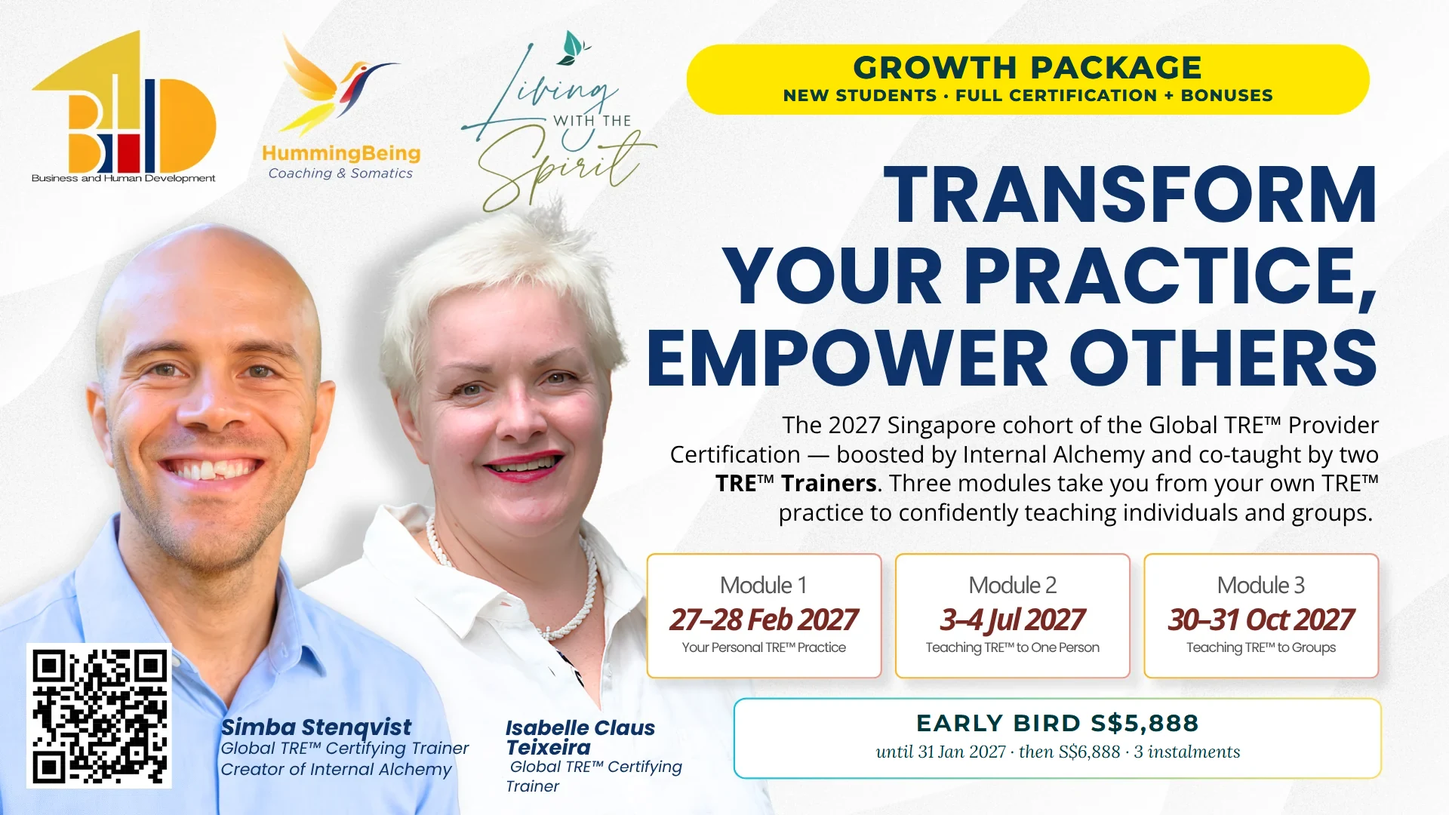
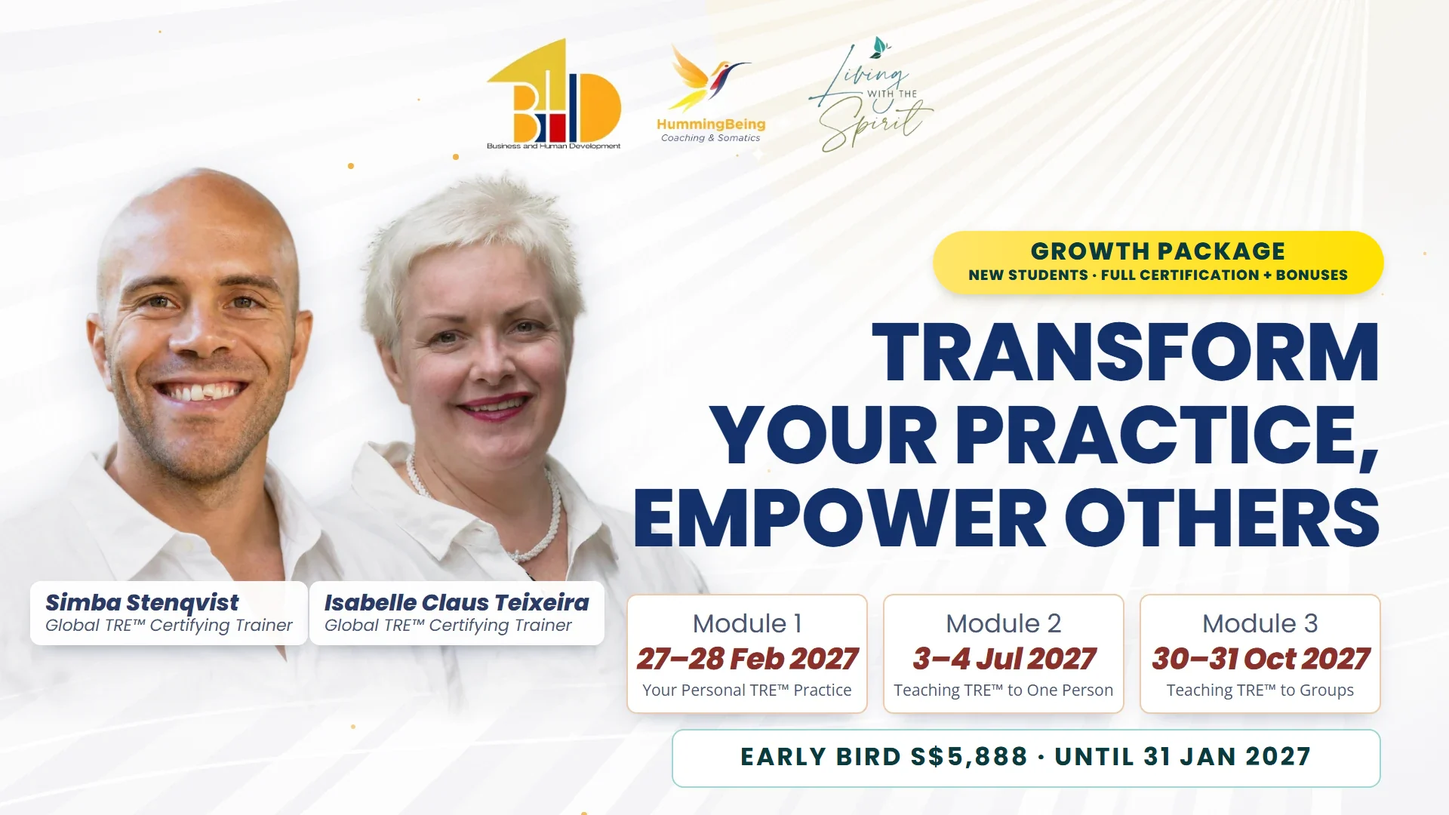
2027 packages: new clean thumbnails, own poster per package page; Scotland + Lisbon portrait posters; posters fill the column

diff --git a/events.html b/events.html
@@ -801,7 +801,7 @@ j=d.createElement(s),dl=l!="dataLayer"?"&l="+l:"";j.async=true;j.src=
         "address": { "@type": "PostalAddress", "addressCountry": "SG", "addressLocality": "Singapore" }
       },
       "organizer": { "@type": "Person", "name": "Isabelle Claus Teixeira", "url": "https://hummingbeing.com/isabelle" },
-      "image": "https://hummingbeing.com/images/event-certification-2027-growth.webp",
+      "image": "https://hummingbeing.com/images/event-certification-2027-growth.webp?v=3",
       "url": "https://hummingbeing.com/event-certification-2027-growth",
       "offers": [
         {
@@ -837,7 +837,7 @@ j=d.createElement(s),dl=l!="dataLayer"?"&l="+l:"";j.async=true;j.src=
         "address": { "@type": "PostalAddress", "addressCountry": "SG", "addressLocality": "Singapore" }
       },
       "organizer": { "@type": "Person", "name": "Isabelle Claus Teixeira", "url": "https://hummingbeing.com/isabelle" },
-      "image": "https://hummingbeing.com/images/event-certification-2027-foundational.webp",
+      "image": "https://hummingbeing.com/images/event-certification-2027-foundational.webp?v=3",
       "url": "https://hummingbeing.com/event-certification-2027-foundational",
       "offers": [
         {
@@ -873,7 +873,7 @@ j=d.createElement(s),dl=l!="dataLayer"?"&l="+l:"";j.async=true;j.src=
         "address": { "@type": "PostalAddress", "addressCountry": "SG", "addressLocality": "Singapore" }
       },
       "organizer": { "@type": "Person", "name": "Isabelle Claus Teixeira", "url": "https://hummingbeing.com/isabelle" },
-      "image": "https://hummingbeing.com/images/event-certification-2027-refresher.webp",
+      "image": "https://hummingbeing.com/images/event-certification-2027-refresher.webp?v=3",
       "url": "https://hummingbeing.com/event-certification-2027-refresher",
       "offers": [
         {
@@ -1338,7 +1338,7 @@ height="0" width="0" style="display:none;visibility:hidden"></iframe></noscript>
     </article>
 
     <article class="evt-card" data-cat="singapore certification" data-start="2027-02-27" data-end="2027-10-31">
-      <a href="/event-certification-2027-growth" class="evt-card-thumb"><img src="images/event-certification-2027-growth.webp" alt="Growth Package, TRE&#8482; Certification Singapore 2027, with Isabelle Claus Teixeira and Simba Stenqvist" loading="lazy" decoding="async" width="1920" height="1080" /></a>
+      <a href="/event-certification-2027-growth" class="evt-card-thumb"><img src="images/event-certification-2027-growth.webp?v=3" alt="Growth Package, TRE&#8482; Certification Singapore 2027, with Isabelle Claus Teixeira and Simba Stenqvist" loading="lazy" decoding="async" width="1920" height="1080" /></a>
       <div class="evt-card-content">
         <div class="evt-card-tags"><span class="evt-tag loc">Singapore</span><span class="evt-tag">New students</span></div>
         <h3>TRE&#8482; Certification 2027 &mdash; Growth Package</h3>
@@ -1352,7 +1352,7 @@ height="0" width="0" style="display:none;visibility:hidden"></iframe></noscript>
     </article>
 
     <article class="evt-card" data-cat="singapore certification" data-start="2027-02-27" data-end="2027-10-31">
-      <a href="/event-certification-2027-foundational" class="evt-card-thumb"><img src="images/event-certification-2027-foundational.webp" alt="Foundational Package, TRE&#8482; Certification Singapore 2027, with Isabelle Claus Teixeira and Simba Stenqvist" loading="lazy" decoding="async" width="1920" height="1080" /></a>
+      <a href="/event-certification-2027-foundational" class="evt-card-thumb"><img src="images/event-certification-2027-foundational.webp?v=3" alt="Foundational Package, TRE&#8482; Certification Singapore 2027, with Isabelle Claus Teixeira and Simba Stenqvist" loading="lazy" decoding="async" width="1920" height="1080" /></a>
       <div class="evt-card-content">
         <div class="evt-card-tags"><span class="evt-tag loc">Singapore</span><span class="evt-tag">New students</span></div>
         <h3>TRE&#8482; Certification 2027 &mdash; Foundational Package</h3>
@@ -1366,7 +1366,7 @@ height="0" width="0" style="display:none;visibility:hidden"></iframe></noscript>
     </article>
 
     <article class="evt-card" data-cat="singapore certification" data-start="2027-02-27" data-end="2027-10-31">
-      <a href="/event-certification-2027-refresher" class="evt-card-thumb"><img src="images/event-certification-2027-refresher.webp" alt="Refresher Packages, TRE&#8482; Certification Singapore 2027, with Isabelle Claus Teixeira and Simba Stenqvist" loading="lazy" decoding="async" width="1920" height="1080" /></a>
+      <a href="/event-certification-2027-refresher" class="evt-card-thumb"><img src="images/event-certification-2027-refresher.webp?v=3" alt="Refresher Packages, TRE&#8482; Certification Singapore 2027, with Isabelle Claus Teixeira and Simba Stenqvist" loading="lazy" decoding="async" width="1920" height="1080" /></a>
       <div class="evt-card-content">
         <div class="evt-card-tags"><span class="evt-tag loc">Singapore</span><span class="evt-tag">Providers &amp; trainees</span></div>
         <h3>TRE&#8482; Certification 2027 &mdash; Refresher Packages</h3>

diff --git a/event-certification-2027-foundational.html b/event-certification-2027-foundational.html
@@ -27,7 +27,7 @@ j=d.createElement(s),dl=l!="dataLayer"?"&l="+l:"";j.async=true;j.src=
   <meta property="og:type" content="website" />
   <meta property="og:title" content="TRE&#8482; Certification 2027 &#8212; Foundational Package | HummingBeing" />
   <meta property="og:description" content="Foundational Package, TRE&#8482; Certification Singapore 2027: the complete certification pathway, without ICF credits or bonus programmes. S$4,888 early bird to 31 Jan 2027, then S$5,888." />
-  <meta property="og:image" content="https://hummingbeing.com/images/event-certification-2027-foundational.webp" />
+  <meta property="og:image" content="https://hummingbeing.com/images/event-certification-2027-foundational.webp?v=3" />
   <meta property="og:url" content="https://hummingbeing.com/event-certification-2027-foundational" />
   <meta name="twitter:card" content="summary_large_image" />
   <script type="application/ld+json">
@@ -264,7 +264,7 @@ height="0" width="0" style="display:none;visibility:hidden"></iframe></noscript>
 </nav>
 <!-- HERO -->
 <section class="ce-hero">
-  <div class="ce-bg" style="background-image:url('images/event-certification-2027-foundational.webp')"></div>
+  <div class="ce-bg" style="background-image:url('images/event-certification-2027-foundational.webp?v=3')"></div>
   <div class="ce-hero-inner">
     <div>
       <p class="ce-crumbs"><a href="/events">Events</a> &rsaquo; <a href="/event-certification-2027">Certification 2027</a> &rsaquo; Foundational Package</p>
@@ -292,6 +292,10 @@ height="0" width="0" style="display:none;visibility:hidden"></iframe></noscript>
 <!-- BODY -->
 <div class="ce-layout">
   <div class="ce-main">
+    <figure class="ce-poster ce-poster-portrait" id="ce-poster" role="button" tabindex="0" aria-label="View full-size event poster" style="max-width:100%">
+      <img src="images/event-certification-2027-foundational-poster.webp?v=1" alt="TRE&#8482; Provider Certification 2027 Singapore, Foundational Package, led by Isabelle Claus Teixeira and Simba Stenqvist; modules 27&#8211;28 Feb, 3&#8211;4 Jul and 30&#8211;31 Oct 2027." width="1080" height="1350" fetchpriority="high" decoding="async" />
+      <span class="ce-zoom-hint"><i class="fa-solid fa-magnifying-glass-plus"></i> Click to enlarge</span>
+    </figure>
     <h2>The Foundational Package</h2>
     <p>The Foundational Package is the complete certification pathway for new students: <strong>Modules 1&#8211;3</strong> with all the online personal sessions and supervisions listed below. It does <strong>not</strong> include ICF credits or the three bonus programmes &#8212; for those, see the <a href="/event-certification-2027-growth" style="color:var(--gold-dark);font-weight:700">Growth Package</a>.</p>
     <div class="ce-tblwrap"><table class="ce-table"><thead><tr><th></th><th>Foundational</th><th>Growth</th></tr></thead><tbody>
@@ -543,5 +547,22 @@ function evtlSubmit(e) {
 }
 </script>
 <script src="gdpr-consent.js?v=1"></script>
+<div class="ce-lightbox" id="ce-lightbox" aria-hidden="true">
+  <button class="ce-lightbox-close" id="ce-lightbox-close" aria-label="Close">&times;</button>
+  <img src="images/event-certification-2027-foundational-poster.webp?v=1" alt="Foundational Package 2027 - full event poster" />
+</div>
+<script>
+(function(){
+  var poster=document.getElementById('ce-poster'), lb=document.getElementById('ce-lightbox'),
+      close=document.getElementById('ce-lightbox-close');
+  if(!poster||!lb) return;
+  function open(){ lb.classList.add('open'); lb.setAttribute('aria-hidden','false'); document.body.style.overflow='hidden'; }
+  function shut(){ lb.classList.remove('open'); lb.setAttribute('aria-hidden','true'); document.body.style.overflow=''; }
+  poster.addEventListener('click', open);
+  poster.addEventListener('keydown', function(e){ if(e.key==='Enter'||e.key===' '){ e.preventDefault(); open(); } });
+  lb.addEventListener('click', function(e){ if(e.target===lb||e.target===close) shut(); });
+  document.addEventListener('keydown', function(e){ if(e.key==='Escape') shut(); });
+})();
+</script>
 </body>
 </html>

diff --git a/event-certification-2027-growth.html b/event-certification-2027-growth.html
@@ -27,7 +27,7 @@ j=d.createElement(s),dl=l!="dataLayer"?"&l="+l:"";j.async=true;j.src=
   <meta property="og:type" content="website" />
   <meta property="og:title" content="TRE&#8482; Certification 2027 &#8212; Growth Package | HummingBeing" />
   <meta property="og:description" content="Growth Package, TRE&#8482; Certification Singapore 2027: Modules 1&#8211;3, all online sessions and supervisions, ICF credits and 3 bonus programmes. S$5,888 early bird to 31 Jan 2027, then S$6,888." />
-  <meta property="og:image" content="https://hummingbeing.com/images/event-certification-2027-growth.webp" />
+  <meta property="og:image" content="https://hummingbeing.com/images/event-certification-2027-growth.webp?v=3" />
   <meta property="og:url" content="https://hummingbeing.com/event-certification-2027-growth" />
   <meta name="twitter:card" content="summary_large_image" />
   <script type="application/ld+json">
@@ -264,7 +264,7 @@ height="0" width="0" style="display:none;visibility:hidden"></iframe></noscript>
 </nav>
 <!-- HERO -->
 <section class="ce-hero">
-  <div class="ce-bg" style="background-image:url('images/event-certification-2027-growth.webp')"></div>
+  <div class="ce-bg" style="background-image:url('images/event-certification-2027-growth.webp?v=3')"></div>
   <div class="ce-hero-inner">
     <div>
       <p class="ce-crumbs"><a href="/events">Events</a> &rsaquo; <a href="/event-certification-2027">Certification 2027</a> &rsaquo; Growth Package</p>
@@ -292,6 +292,10 @@ height="0" width="0" style="display:none;visibility:hidden"></iframe></noscript>
 <!-- BODY -->
 <div class="ce-layout">
   <div class="ce-main">
+    <figure class="ce-poster ce-poster-portrait" id="ce-poster" role="button" tabindex="0" aria-label="View full-size event poster" style="max-width:100%">
+      <img src="images/event-certification-2027-growth-poster.webp?v=1" alt="TRE&#8482; Provider Certification 2027 Singapore, Growth Package, led by Isabelle Claus Teixeira and Simba Stenqvist; modules 27&#8211;28 Feb, 3&#8211;4 Jul and 30&#8211;31 Oct 2027." width="1080" height="1350" fetchpriority="high" decoding="async" />
+      <span class="ce-zoom-hint"><i class="fa-solid fa-magnifying-glass-plus"></i> Click to enlarge</span>
+    </figure>
     <h2>The Growth Package</h2>
     <p>The Growth Package is the full TRE&#8482; certification as advertised for the 2027 Singapore cohort, for new students. It includes <strong>Modules 1&#8211;3</strong>, <strong>all online personal sessions and supervisions</strong>, <strong>ICF credits</strong> and the <strong>three self-paced bonus programmes</strong> (value S$1,290): Grounding, Verbal Interventions and Internal Alchemy.</p>
     <p>ICF CCEs are released on full attendance of the relevant module (Module 1 = 21 CCEs). <a href="/tre-icf-cceu" style="color:var(--gold-dark);font-weight:700">How the CCEs count</a>.</p>
@@ -554,5 +558,22 @@ function evtlSubmit(e) {
 }
 </script>
 <script src="gdpr-consent.js?v=1"></script>
+<div class="ce-lightbox" id="ce-lightbox" aria-hidden="true">
+  <button class="ce-lightbox-close" id="ce-lightbox-close" aria-label="Close">&times;</button>
+  <img src="images/event-certification-2027-growth-poster.webp?v=1" alt="Growth Package 2027 - full event poster" />
+</div>
+<script>
+(function(){
+  var poster=document.getElementById('ce-poster'), lb=document.getElementById('ce-lightbox'),
+      close=document.getElementById('ce-lightbox-close');
+  if(!poster||!lb) return;
+  function open(){ lb.classList.add('open'); lb.setAttribute('aria-hidden','false'); document.body.style.overflow='hidden'; }
+  function shut(){ lb.classList.remove('open'); lb.setAttribute('aria-hidden','true'); document.body.style.overflow=''; }
+  poster.addEventListener('click', open);
+  poster.addEventListener('keydown', function(e){ if(e.key==='Enter'||e.key===' '){ e.preventDefault(); open(); } });
+  lb.addEventListener('click', function(e){ if(e.target===lb||e.target===close) shut(); });
+  document.addEventListener('keydown', function(e){ if(e.key==='Escape') shut(); });
+})();
+</script>
 </body>
 </html>

diff --git a/event-certification-2027-refresher.html b/event-certification-2027-refresher.html
@@ -27,7 +27,7 @@ j=d.createElement(s),dl=l!="dataLayer"?"&l="+l:"";j.async=true;j.src=
   <meta property="og:type" content="website" />
   <meta property="og:title" content="TRE&#8482; Certification 2027 &#8212; Refresher Packages | HummingBeing" />
   <meta property="og:description" content="Refresher Packages for accredited TRE&#8482; Providers and trainees, Singapore 2027: four options from S$2,200 early bird (to 31 Jan 2027), up to S$4,600 regular." />
-  <meta property="og:image" content="https://hummingbeing.com/images/event-certification-2027-refresher.webp" />
+  <meta property="og:image" content="https://hummingbeing.com/images/event-certification-2027-refresher.webp?v=3" />
   <meta property="og:url" content="https://hummingbeing.com/event-certification-2027-refresher" />
   <meta name="twitter:card" content="summary_large_image" />
   <script type="application/ld+json">
@@ -318,7 +318,7 @@ height="0" width="0" style="display:none;visibility:hidden"></iframe></noscript>
 </nav>
 <!-- HERO -->
 <section class="ce-hero">
-  <div class="ce-bg" style="background-image:url('images/event-certification-2027-refresher.webp')"></div>
+  <div class="ce-bg" style="background-image:url('images/event-certification-2027-refresher.webp?v=3')"></div>
   <div class="ce-hero-inner">
     <div>
       <p class="ce-crumbs"><a href="/events">Events</a> &rsaquo; <a href="/event-certification-2027">Certification 2027</a> &rsaquo; Refresher Packages</p>
@@ -346,6 +346,10 @@ height="0" width="0" style="display:none;visibility:hidden"></iframe></noscript>
 <!-- BODY -->
 <div class="ce-layout">
   <div class="ce-main">
+    <figure class="ce-poster ce-poster-portrait" id="ce-poster" role="button" tabindex="0" aria-label="View full-size event poster" style="max-width:100%">
+      <img src="images/event-certification-2027-refresher-poster.webp?v=1" alt="TRE&#8482; Provider Certification 2027 Singapore, Refresher Packages, led by Isabelle Claus Teixeira and Simba Stenqvist; modules 27&#8211;28 Feb, 3&#8211;4 Jul and 30&#8211;31 Oct 2027." width="1080" height="1350" fetchpriority="high" decoding="async" />
+      <span class="ce-zoom-hint"><i class="fa-solid fa-magnifying-glass-plus"></i> Click to enlarge</span>
+    </figure>
     <h2>Who the Refresher Packages are for</h2>
     <p>The Refresher Packages are for <strong>accredited TRE&#8482; Providers</strong> and <strong>TRE&#8482; Provider trainees</strong> who want to complete their training with the 2027 Singapore cohort, co-taught by Isabelle Claus Teixeira and Simba Stenqvist. New to TRE&#8482;? See the <a href="/event-certification-2027-growth" style="color:var(--gold-dark);font-weight:700">Growth</a> and <a href="/event-certification-2027-foundational" style="color:var(--gold-dark);font-weight:700">Foundational</a> packages.</p>
 
@@ -623,5 +627,22 @@ function evtlSubmit(e) {
 })();
 </script>
 <script src="gdpr-consent.js?v=1"></script>
+<div class="ce-lightbox" id="ce-lightbox" aria-hidden="true">
+  <button class="ce-lightbox-close" id="ce-lightbox-close" aria-label="Close">&times;</button>
+  <img src="images/event-certification-2027-refresher-poster.webp?v=1" alt="Refresher Packages 2027 - full event poster" />
+</div>
+<script>
+(function(){
+  var poster=document.getElementById('ce-poster'), lb=document.getElementById('ce-lightbox'),
+      close=document.getElementById('ce-lightbox-close');
+  if(!poster||!lb) return;
+  function open(){ lb.classList.add('open'); lb.setAttribute('aria-hidden','false'); document.body.style.overflow='hidden'; }
+  function shut(){ lb.classList.remove('open'); lb.setAttribute('aria-hidden','true'); document.body.style.overflow=''; }
+  poster.addEventListener('click', open);
+  poster.addEventListener('keydown', function(e){ if(e.key==='Enter'||e.key===' '){ e.preventDefault(); open(); } });
+  lb.addEventListener('click', function(e){ if(e.target===lb||e.target===close) shut(); });
+  document.addEventListener('keydown', function(e){ if(e.key==='Escape') shut(); });
+})();
+</script>
 </body>
 </html>

diff --git a/events-2027-preview.html b/events-2027-preview.html
@@ -819,7 +819,7 @@ height="0" width="0" style="display:none;visibility:hidden"></iframe></noscript>
     </article>
 
     <article class="evt-card" data-cat="singapore certification" data-start="2027-02-27" data-end="2027-10-31">
-      <a href="/event-certification-2027-growth" class="evt-card-thumb"><img src="images/event-certification-2027-growth.webp" alt="Growth Package, TRE&#8482; Certification Singapore 2027, with Isabelle Claus Teixeira and Simba Stenqvist" loading="lazy" decoding="async" width="1920" height="1080" /></a>
+      <a href="/event-certification-2027-growth" class="evt-card-thumb"><img src="images/event-certification-2027-growth.webp?v=3" alt="Growth Package, TRE&#8482; Certification Singapore 2027, with Isabelle Claus Teixeira and Simba Stenqvist" loading="lazy" decoding="async" width="1920" height="1080" /></a>
       <div class="evt-card-content">
         <div class="evt-card-tags"><span class="evt-tag loc">Singapore</span><span class="evt-tag">New students</span></div>
         <h3>TRE&#8482; Certification 2027 &mdash; Growth Package</h3>
@@ -833,7 +833,7 @@ height="0" width="0" style="display:none;visibility:hidden"></iframe></noscript>
     </article>
 
     <article class="evt-card" data-cat="singapore certification" data-start="2027-02-27" data-end="2027-10-31">
-      <a href="/event-certification-2027-foundational" class="evt-card-thumb"><img src="images/event-certification-2027-foundational.webp" alt="Foundational Package, TRE&#8482; Certification Singapore 2027, with Isabelle Claus Teixeira and Simba Stenqvist" loading="lazy" decoding="async" width="1920" height="1080" /></a>
+      <a href="/event-certification-2027-foundational" class="evt-card-thumb"><img src="images/event-certification-2027-foundational.webp?v=3" alt="Foundational Package, TRE&#8482; Certification Singapore 2027, with Isabelle Claus Teixeira and Simba Stenqvist" loading="lazy" decoding="async" width="1920" height="1080" /></a>
       <div class="evt-card-content">
         <div class="evt-card-tags"><span class="evt-tag loc">Singapore</span><span class="evt-tag">New students</span></div>
         <h3>TRE&#8482; Certification 2027 &mdash; Foundational Package</h3>
@@ -847,7 +847,7 @@ height="0" width="0" style="display:none;visibility:hidden"></iframe></noscript>
     </article>
 
     <article class="evt-card" data-cat="singapore certification" data-start="2027-02-27" data-end="2027-10-31">
-      <a href="/event-certification-2027-refresher" class="evt-card-thumb"><img src="images/event-certification-2027-refresher.webp" alt="Refresher Packages, TRE&#8482; Certification Singapore 2027, with Isabelle Claus Teixeira and Simba Stenqvist" loading="lazy" decoding="async" width="1920" height="1080" /></a>
+      <a href="/event-certification-2027-refresher" class="evt-card-thumb"><img src="images/event-certification-2027-refresher.webp?v=3" alt="Refresher Packages, TRE&#8482; Certification Singapore 2027, with Isabelle Claus Teixeira and Simba Stenqvist" loading="lazy" decoding="async" width="1920" height="1080" /></a>
       <div class="evt-card-content">
         <div class="evt-card-tags"><span class="evt-tag loc">Singapore</span><span class="evt-tag">Providers &amp; trainees</span></div>
         <h3>TRE&#8482; Certification 2027 &mdash; Refresher Packages</h3>

diff --git a/index.html b/index.html
@@ -837,7 +837,7 @@ height="0" width="0" style="display:none;visibility:hidden"></iframe></noscript>
       </article>
       <article class="home-evt-card hx-rv" data-cat="singapore certification" style="--d:360ms">
         <a href="/event-certification-2027-growth" class="home-evt-thumb" aria-label="Growth Package - 2027 - event details">
-          <img src="images/event-certification-2027-growth.webp" alt="Growth Package, TRE&#8482; Certification Singapore 2027, with Isabelle Claus Teixeira and Simba Stenqvist" loading="lazy" decoding="async" width="1920" height="1080" />
+          <img src="images/event-certification-2027-growth.webp?v=3" alt="Growth Package, TRE&#8482; Certification Singapore 2027, with Isabelle Claus Teixeira and Simba Stenqvist" loading="lazy" decoding="async" width="1920" height="1080" />
         </a>
         <div class="home-evt-body">
           <div class="home-evt-tags"><span class="home-evt-tag loc">Singapore</span><span class="home-evt-tag">New students</span></div>
@@ -852,7 +852,7 @@ height="0" width="0" style="display:none;visibility:hidden"></iframe></noscript>
       </article>
       <article class="home-evt-card hx-rv" data-cat="singapore certification" style="--d:390ms">
         <a href="/event-certification-2027-foundational" class="home-evt-thumb" aria-label="Foundational Package - 2027 - event details">
-          <img src="images/event-certification-2027-foundational.webp" alt="Foundational Package, TRE&#8482; Certification Singapore 2027, with Isabelle Claus Teixeira and Simba Stenqvist" loading="lazy" decoding="async" width="1920" height="1080" />
+          <img src="images/event-certification-2027-foundational.webp?v=3" alt="Foundational Package, TRE&#8482; Certification Singapore 2027, with Isabelle Claus Teixeira and Simba Stenqvist" loading="lazy" decoding="async" width="1920" height="1080" />
         </a>
         <div class="home-evt-body">
           <div class="home-evt-tags"><span class="home-evt-tag loc">Singapore</span><span class="home-evt-tag">New students</span></div>
@@ -867,7 +867,7 @@ height="0" width="0" style="display:none;visibility:hidden"></iframe></noscript>
       </article>
       <article class="home-evt-card hx-rv" data-cat="singapore certification" style="--d:420ms">
         <a href="/event-certification-2027-refresher" class="home-evt-thumb" aria-label="Refresher Packages - 2027 - event details">
-          <img src="images/event-certification-2027-refresher.webp" alt="Refresher Packages, TRE&#8482; Certification Singapore 2027, with Isabelle Claus Teixeira and Simba Stenqvist" loading="lazy" decoding="async" width="1920" height="1080" />
+          <img src="images/event-certification-2027-refresher.webp?v=3" alt="Refresher Packages, TRE&#8482; Certification Singapore 2027, with Isabelle Claus Teixeira and Simba Stenqvist" loading="lazy" decoding="async" width="1920" height="1080" />
         </a>
         <div class="home-evt-body">
           <div class="home-evt-tags"><span class="home-evt-tag loc">Singapore</span><span class="home-evt-tag">Providers &amp; trainees</span></div>

diff --git a/event-certification-2027.html b/event-certification-2027.html
@@ -328,8 +328,8 @@ height="0" width="0" style="display:none;visibility:hidden"></iframe></noscript>
 <!-- BODY -->
 <div class="ce-layout">
   <div class="ce-main">
-    <figure class="ce-poster ce-poster-portrait" id="ce-poster" role="button" tabindex="0" aria-label="View full-size event poster" style="max-width:540px;margin-left:auto;margin-right:auto">
-      <img src="images/event-certification-2027-poster-v2.webp" alt="Become a Certified TRE&#8482; Provider 2027, boosted by Internal Alchemy, led by Isabelle Claus Teixeira and Simba Stenqvist. Growth, Foundational and Refresher packages; modules 27&#8211;28 Feb, 3&#8211;4 Jul and 30&#8211;31 Oct 2027 in Singapore." width="1080" height="1350" fetchpriority="high" decoding="async" />
+    <figure class="ce-poster ce-poster-portrait" id="ce-poster" role="button" tabindex="0" aria-label="View full-size event poster" style="max-width:100%">
+      <img src="images/event-certification-2027-poster-v3.webp" alt="Become a Certified TRE&#8482; Provider 2027, boosted by Internal Alchemy, led by Isabelle Claus Teixeira and Simba Stenqvist. Growth, Foundational and Refresher packages; modules 27&#8211;28 Feb, 3&#8211;4 Jul and 30&#8211;31 Oct 2027 in Singapore." width="1080" height="1350" fetchpriority="high" decoding="async" />
       <span class="ce-zoom-hint"><i class="fa-solid fa-magnifying-glass-plus"></i> Click to enlarge</span>
     </figure>
 
@@ -583,7 +583,7 @@ height="0" width="0" style="display:none;visibility:hidden"></iframe></noscript>
 
 <div class="ce-lightbox" id="ce-lightbox" aria-hidden="true">
   <button class="ce-lightbox-close" id="ce-lightbox-close" aria-label="Close">&times;</button>
-  <img src="images/event-certification-2027-poster-v2.webp" alt="Become a Certified TRE&#8482; Provider 2027 - full event poster" />
+  <img src="images/event-certification-2027-poster-v3.webp" alt="Become a Certified TRE&#8482; Provider 2027 - full event poster" />
 </div>
 <script>
 (function(){

diff --git a/event-tre-module1-online-scotland.html b/event-tre-module1-online-scotland.html
@@ -242,8 +242,8 @@ height="0" width="0" style="display:none;visibility:hidden"></iframe></noscript>
 <!-- BODY -->
 <div class="ce-layout">
   <div class="ce-main">
-    <figure class="ce-poster">
-      <img src="images/event-scotland-online-module1.webp?v=2" alt="TRE&#8482; Module 1 ONLINE with TRE Scotland — 18–20 June 2027, 21 ICF CCEUs, led by Isabelle Claus Teixeira and Vicki Cook" width="1920" height="1080" decoding="async" />
+    <figure class="ce-poster ce-poster-portrait" style="max-width:100%">
+      <img src="images/event-scotland-online-module1-poster.webp?v=1" alt="TRE&#8482; Module 1 ONLINE with TRE Scotland, 18&#8211;20 June 2027, 21 ICF CCEUs, led by Isabelle Claus Teixeira and Vicki Cook. Early bird 488 GBP until 31 May 2027, then 589 GBP." width="1080" height="1350" decoding="async" />
     </figure>
 
     <h2>Why ICF accredited TRE&#8482; Module 1 ONLINE with TRE Scotland?</h2>

diff --git a/event-tre-module1-lisbon.html b/event-tre-module1-lisbon.html
@@ -245,8 +245,8 @@ height="0" width="0" style="display:none;visibility:hidden"></iframe></noscript>
 <!-- BODY -->
 <div class="ce-layout">
   <div class="ce-main">
-    <figure class="ce-poster">
-      <img src="images/event-lisbon-module1.webp?v=1" alt="TRE&#8482; Module 1 Lisboa, Portugal — 28–30 May 2027, 21 ICF CCEUs, led by Isabelle Claus Teixeira with Saymara Ryon" width="1920" height="1080" decoding="async" />
+    <figure class="ce-poster ce-poster-portrait" style="max-width:100%">
+      <img src="images/event-lisbon-module1-poster.webp?v=1" alt="TRE&#8482; Module 1 in Lisboa, Portugal, 28&#8211;30 May 2027, 21 ICF CCEUs, led by Isabelle Claus Teixeira and Saymara Ryon. Early bird &#8364;739, full price &#8364;799." width="1080" height="1350" decoding="async" />
     </figure>
 
     <h2>Why TRE&#8482; Module 1 in Lisbon?</h2>
